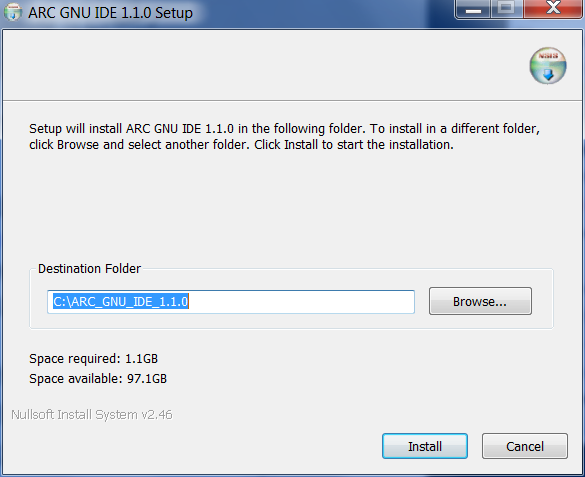
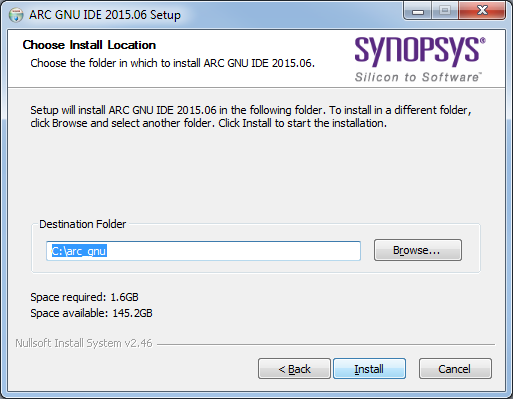
Update Installation page for 2015.06 release

Changed region(s): [[0.0, 0.0, 1.0, 1.0], [0.0624, 0.6015, 0.9357, 0.6617], [0.0624, 0.5414, 0.9357, 0.5714]]

diff --git a/Installation.md b/Installation.md
@@ -37,7 +37,15 @@ cannot contain white spaces.
 ![Run ARC_GNU_IDE_1.1.0_win_install.exe]
 (images/install/run_arc_gnu_1.1.0_win_install.exe.png)
 
-_Run ARC_GNU_IDE_1.1.0_win_install.exe_
+_Run arc_gnu_2015.06_ide_win_install.exe_
+
+![Accept Synopsys FOSS notice](images/install/license_page.png)
+
+_Accept Synopsys FOSS notice_
+
+![Choose components to be installed](images/install/components_page.png)
+
+_Choose components to be installed_
 
 ![Choose installer paths](images/install/choose_installer_paths.png)
 
@@ -46,10 +54,6 @@ _Choose installer paths_
 ![Installation Completed](images/install/installation_completed.png)
 
 _Installation Completed_
-
-![Click "Show details" button](images/install/click_show_details_button.png)
-
-_Click "Show details" button_
 
 
 3. Manual installation on Linux and Windows
